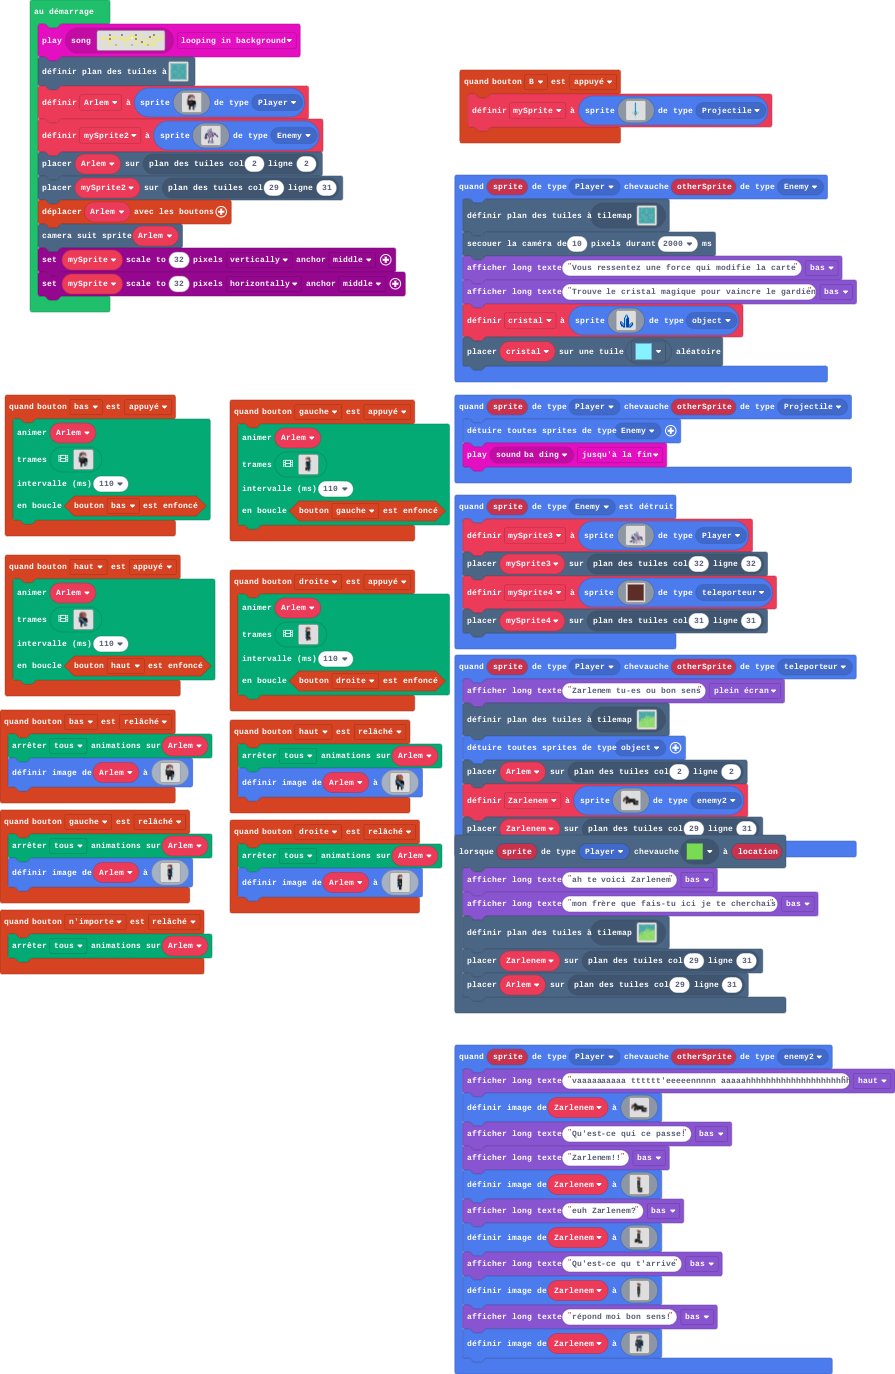
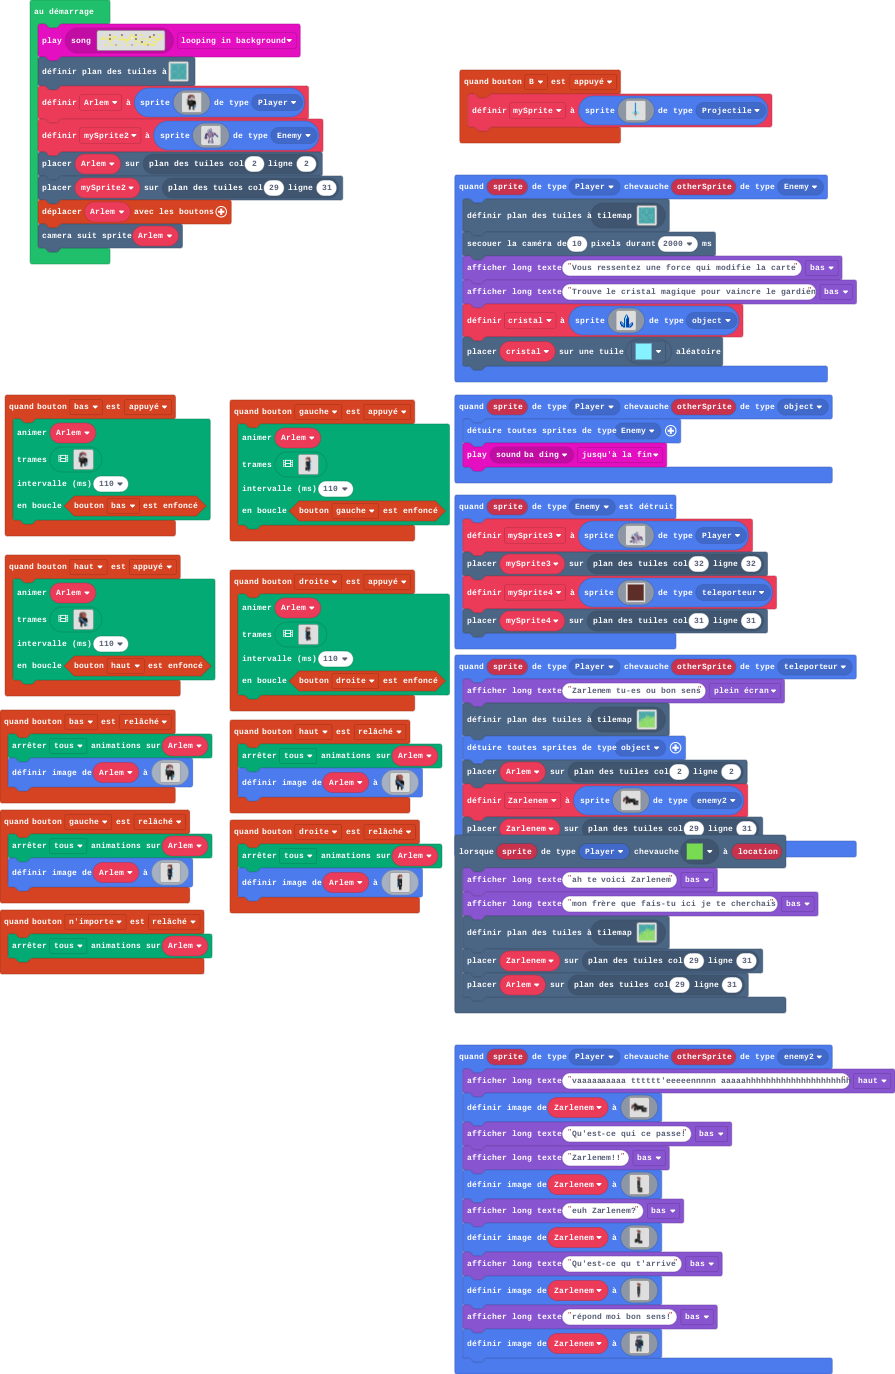
Mise à jour main.blocks, main.ts

Changed region(s): [[0.0302, 0.1528, 0.4525, 0.2445], [0.905, 0.2751, 0.9654, 0.3057], [0.9352, 0.3362, 0.9654, 0.3668]]

diff --git a/main.ts b/main.ts
@@ -265,6 +265,10 @@ sprites.onOverlap(SpriteKind.Player, SpriteKind.enemy2, function (sprite, otherS
         ...222...222...
         `)
 })
+sprites.onOverlap(SpriteKind.Player, SpriteKind.object, function (sprite, otherSprite) {
+    sprites.destroyAllSpritesOfKind(SpriteKind.Enemy)
+    music.play(music.melodyPlayable(music.baDing), music.PlaybackMode.UntilDone)
+})
 controller.down.onEvent(ControllerButtonEvent.Pressed, function () {
     animation.runImageAnimation(
     Arlem,
@@ -749,10 +753,6 @@ controller.up.onEvent(ControllerButtonEvent.Pressed, function () {
     110,
     controller.up.isPressed()
     )
-})
-sprites.onOverlap(SpriteKind.Player, SpriteKind.Projectile, function (sprite, otherSprite) {
-    sprites.destroyAllSpritesOfKind(SpriteKind.Enemy)
-    music.play(music.melodyPlayable(music.baDing), music.PlaybackMode.UntilDone)
 })
 controller.B.onEvent(ControllerButtonEvent.Pressed, function () {
     mySprite = sprites.create(img`
@@ -1398,8 +1398,8 @@ sprites.onOverlap(SpriteKind.Player, SpriteKind.Enemy, function (sprite, otherSp
 let cristal: Sprite = null
 let mySprite4: Sprite = null
 let mySprite3: Sprite = null
-let Zarlenem: Sprite = null
 let mySprite: Sprite = null
+let Zarlenem: Sprite = null
 let Arlem: Sprite = null
 music.play(music.createSong(assets.song`mySong`), music.PlaybackMode.LoopingInBackground)
 tiles.setTilemap(tilemap`niveau1`)
@@ -1473,5 +1473,3 @@ tiles.placeOnTile(Arlem, tiles.getTileLocation(2, 2))
 tiles.placeOnTile(mySprite2, tiles.getTileLocation(29, 31))
 controller.moveSprite(Arlem)
 scene.cameraFollowSprite(Arlem)
-scaling.scaleToPixels(mySprite, 32, ScaleDirection.Vertically, ScaleAnchor.Middle)
-scaling.scaleToPixels(mySprite, 32, ScaleDirection.Horizontally, ScaleAnchor.Middle)
